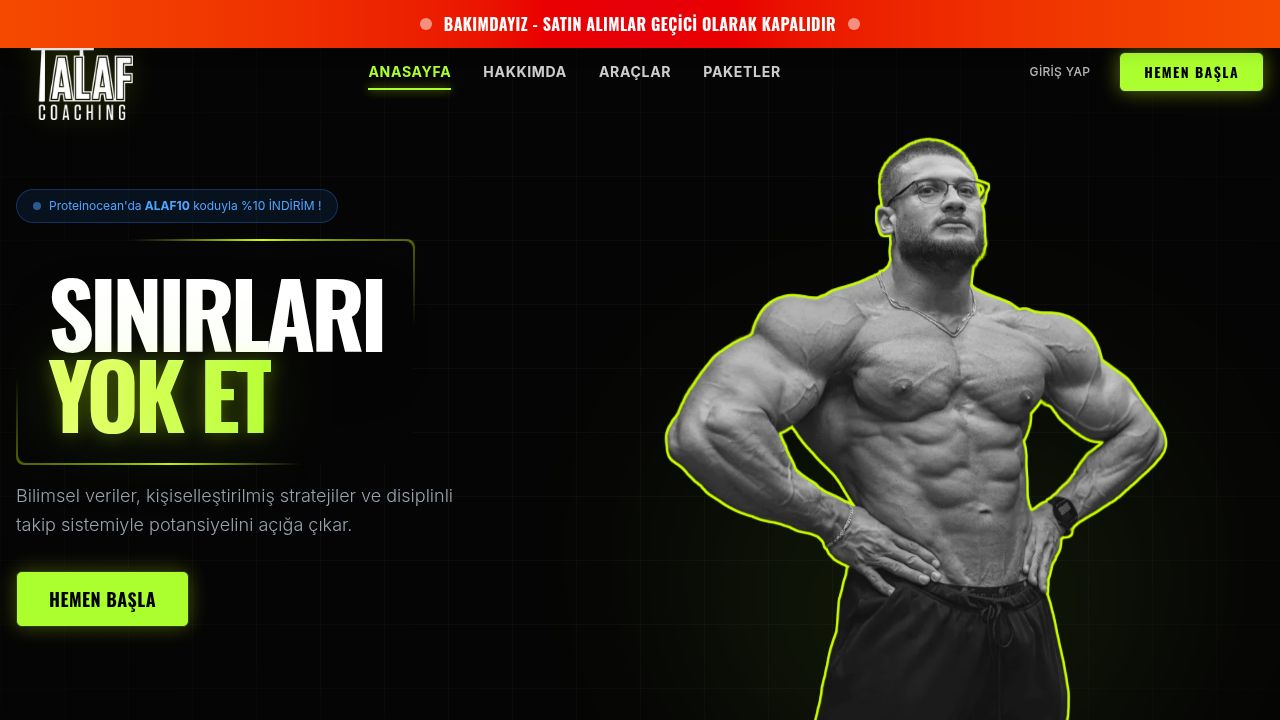
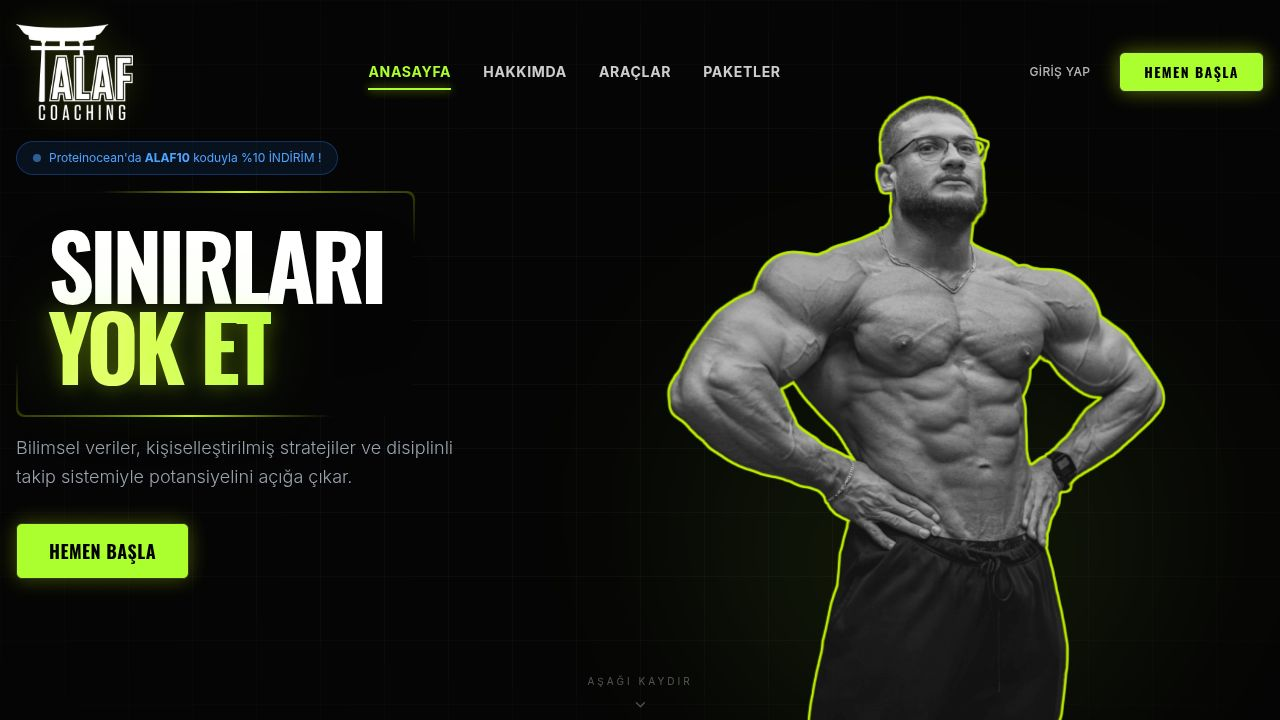
Restored to 'cf1dc9f37b82a8249d3e559a57257ebe986c9430'
Replit-Restored-To: cf1dc9f37b82a8249d3e559a57257ebe986c9430

Changed region(s): [[0.5, 0.1222, 0.9375, 1.0], [0.0, 0.1833, 0.3438, 0.8861], [0.0, 0.0, 1.0, 0.1528]]

diff --git a/client/src/pages/Home.tsx b/client/src/pages/Home.tsx
@@ -54,17 +54,6 @@ export default function Home() {
 
   return (
     <div className="overflow-hidden bg-[#050505]">
-      {/* MAINTENANCE BANNER */}
-      <div className="bg-gradient-to-r from-orange-600 via-red-600 to-orange-600 text-white py-3 px-4 text-center relative z-50 shadow-lg">
-        <div className="container mx-auto flex items-center justify-center gap-3">
-          <span className="w-3 h-3 bg-white rounded-full animate-pulse"></span>
-          <p className="font-heading font-bold text-sm md:text-base uppercase tracking-wide">
-            BAKIMDAYIZ - SATIN ALIMLAR GEÇİCİ OLARAK KAPALIDIR
-          </p>
-          <span className="w-3 h-3 bg-white rounded-full animate-pulse"></span>
-        </div>
-      </div>
-
       {/* HERO SECTION */}
       <section ref={ref} className="relative min-h-[100svh] flex flex-col lg:flex-row items-center pt-20 lg:pt-0 overflow-hidden">
         
